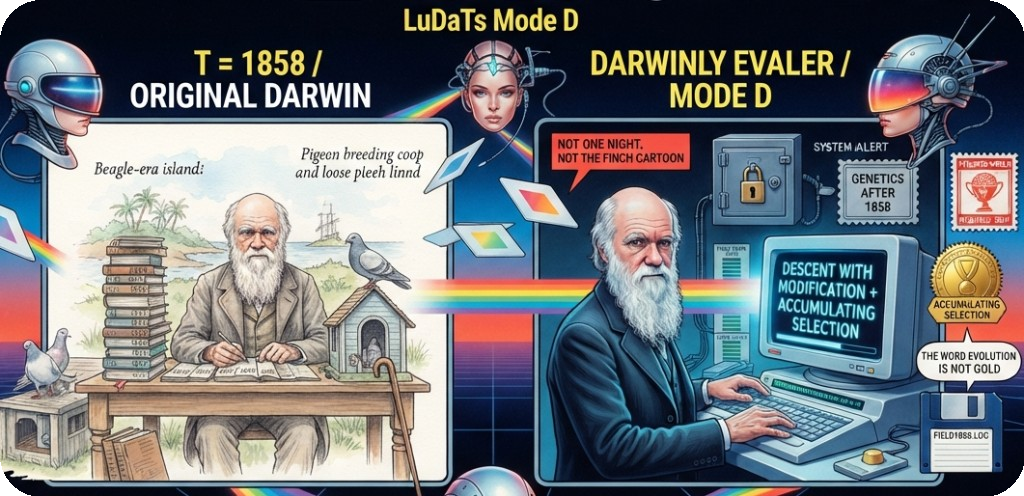
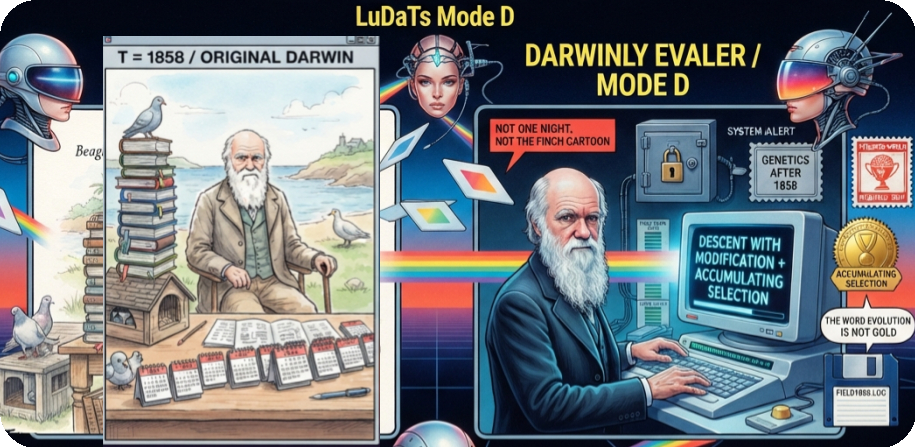
Replace the CurCuriely and Darwinly cards, and link Trajectly.
The two glossary cards use the new attached art with baked rounded corners. Prose mentions of Trajectly now open the glossary entry.

diff --git a/docs/glossary.html b/docs/glossary.html
@@ -116,7 +116,7 @@
 
 <h3><img src="../assets/glossary/score-constitution.png" alt="Score Constitution" height="17" width="176"></h3>
 
-<p>Evalathan is one evaluation harness. It is not a seventeenth Hydra score and not a ninth Dehydrus score. <a href="#hydra">Hydra</a> writes sixteen software cells, in this order: Devly, Archly, Codely, Refactorly, Mixly, Runly, Levi, Menschly, Tokely, Pressly, Triadly, Chorely, Trajectly, Warrantly, Domly, Stackly. <a href="#dehydrus">Dehydrus</a> writes eight <a href="#ludats">LuDaTs</a> (Limited-universe Data Test sets) cells under <a href="#pretruws">PRETRUWs</a>, in this order: <a href="#copernly">Copernly</a>, <a href="#keplerly">Keplerly</a>, <a href="#galileoly">Galileoly</a>, <a href="#darwinly">Darwinly</a>, <a href="#mendly">Mendly</a>, <a href="#einsteinly">Einsteinly</a>, <a href="#curcuriely">CurCuriely</a>, <a href="#newtonly">Newtonly</a>. The two rooms stay apart. A blank is not a fail and not a zero. Evalathan does not fold the twenty-four cells into one number, and it does not award a state-of-the-art stamp. The Hydra PRD (Product Requirements Document) line and the Dehydrus <a href="#habtwin">HabTwin</a> filename line are utilities, not extra evalers.</p>
+<p>Evalathan is one evaluation harness. It is not a seventeenth Hydra score and not a ninth Dehydrus score. <a href="#hydra">Hydra</a> writes sixteen software cells, in this order: Devly, Archly, Codely, Refactorly, Mixly, Runly, Levi, Menschly, Tokely, Pressly, Triadly, Chorely, <a href="#trajectly">Trajectly</a>, Warrantly, Domly, Stackly. <a href="#dehydrus">Dehydrus</a> writes eight <a href="#ludats">LuDaTs</a> (Limited-universe Data Test sets) cells under <a href="#pretruws">PRETRUWs</a>, in this order: <a href="#copernly">Copernly</a>, <a href="#keplerly">Keplerly</a>, <a href="#galileoly">Galileoly</a>, <a href="#darwinly">Darwinly</a>, <a href="#mendly">Mendly</a>, <a href="#einsteinly">Einsteinly</a>, <a href="#curcuriely">CurCuriely</a>, <a href="#newtonly">Newtonly</a>. The two rooms stay apart. A blank is not a fail and not a zero. Evalathan does not fold the twenty-four cells into one number, and it does not award a state-of-the-art stamp. The Hydra PRD (Product Requirements Document) line and the Dehydrus <a href="#habtwin">HabTwin</a> filename line are utilities, not extra evalers.</p>
 <p align="center"><img src="../assets/evalathan-logo.png" alt="Evalathan" width="325" height="325"></p>
 <p align="center"><i>One harness. Two conductors. It does not add a score.</i></p>
 <h3><img src="../assets/glossary/simplespeak.png" alt="Simplespeak" height="21" width="113"></h3>
@@ -787,7 +787,7 @@
 <p>This evaler is based on Marie Skłodowska-Curie and Pierre Curie, the pair who discovered that some matter gives off rays that belong to the atom, and who isolated two new elements from pitchblende. The double Cur in the name is because both of them had to be in the room. CurCuriely (code LuDaTs-CC) is a Dehydrus world under <a href="#ludats">LuDaTs</a> (Limited-universe Data Test sets). It runs <a href="#ludats-mode-pair">Mode Pair</a>. It is not a Hydra cell. v0.3 does not award Gold (the structural prize that wins this world, not a sports rank) from a filename. The cell stays deferred until a sealed 1897 pair-world file is in the tree. A blank is not a fail and not a zero.</p>
 <h3><img src="../assets/glossary/simplespeak.png" alt="Simplespeak" height="21" width="113"></h3>
 <p>This evaler is based on Marie Curie and Pierre Curie, who together, after long shared labor, showed that the rays were a property of the atom and pulled two new elements out of pitchblende. The exam uses <a href="#ludats-mode-pair">Mode Pair</a>: two biography clocks, and two agents - an LLM (Large Language Model) and its own co-LLM partner - who must work the same locked 1897 lab and may challenge each other's notes. One agent reciting the later textbook title is not Gold (the structural prize that wins this world, not a sports rank). Gold is joint. A solo run stays deferred. Pierre's 1906 death and Marie's 1911 solo Nobel are after this room.</p>
-<p align="center"><a class="ludats-card" href="../assets/glossary/cards/curcuriely-card.png"><img src="../assets/glossary/cards/curcuriely-card.png" alt="CurCuriely is the pair room. Two clocks, two agents, joint Gold." width="703" height="527"></a></p>
+<p align="center"><a class="ludats-card" href="../assets/glossary/cards/curcuriely-card.png"><img src="../assets/glossary/cards/curcuriely-card.png" alt="CurCuriely is the pair room. Two clocks, two agents, joint Gold." width="703" height="675"></a></p>
 <h3><img src="../assets/glossary/techspeak.png" alt="Techspeak" height="21" width="95"></h3>
 <p>Dehydrus calls CurCuriely and locks <a href="#ludats-mode-pair">Mode Pair</a>. World clock T is 1897, before the 1898 isolation notes. Biography clocks A1 and A2 are Marie and Pierre at that year, in the same shed, with Becquerel's 1896 uranium rays already on the table. Two agents are required. They may divide the work, and they may adversarially peer-review each other. A solo run stays deferred; that wait is part of the method, not a fail. If the folder does not claim a discovery or physical-world exam, the cell stays deferred. If it does, v0.3 looks for a sealed LuDaTs-CC world file and names it when present. v0.3 does not run the simulator, and it does not award Gold (the structural prize that wins this world, not a sports rank) from a filename.</p>
 <p>When the simulator does run, both agents get the 1897 corpus only. The next step is to isolate two new-element property cards from pitchblende and to state that the rays belong to the atom, not to a chemical compound. One agent cannot take Gold alone. The 1903 Nobel write-up, the 1911 chemistry prize, and later nuclear models are leakage. The string "radioactivity" without the atomic-property claim is not Gold. Card: <a href="https://github.com/pedramgoshATgmail/EVALATHAN/blob/main/exams/ludats/ludats-cc-curie.yaml" target="_blank" rel="noopener noreferrer">exams/ludats/ludats-cc-curie.yaml</a>.</p>
@@ -799,7 +799,7 @@
 <p>This evaler is based on Darwin, the naturalist who discovered that living forms change through descent with modification. Darwinly (LuDaTs-D) is a required Dehydrus world. It runs <a href="#ludats-mode-d">Mode D</a>. It is not a Hydra cell. v0.3 does not award Gold (the structural prize that wins this world, not a sports rank) from a filename. The cell stays deferred until a sealed 1858 field world is in the tree. A blank is not a fail and not a zero.</p>
 <h3><img src="../assets/glossary/simplespeak.png" alt="Simplespeak" height="21" width="113"></h3>
 <p>This evaler is based on Darwin, the naturalist who discovered that living forms change through descent with modification and a selection that can accumulate. The exam uses <a href="#ludats-mode-d">Mode D</a>: years of walking, breeding, and notes, not one night and not the finch cartoon. The book <a href="https://en.wikipedia.org/wiki/On_the_Origin_of_Species"><i>On the Origin of Species</i></a> is 1859, so the freeze is 1858. Descent with a selection that can accumulate is Gold (the structural prize that wins this world, not a sports rank). Saying the later word "evolution" is not Gold. Genetics after 1858 is locked out of the room.</p>
-<p align="center"><a class="ludats-card" href="../assets/glossary/cards/darwinly-card.png"><img src="../assets/glossary/cards/darwinly-card.png" alt="Darwinly accumulates years of field notes. Descent with modification, not the finch cartoon." width="703" height="341"></a></p>
+<p align="center"><a class="ludats-card" href="../assets/glossary/cards/darwinly-card.png"><img src="../assets/glossary/cards/darwinly-card.png" alt="Darwinly accumulates years of field notes. Descent with modification, not the finch cartoon." width="703" height="343"></a></p>
 <h3><img src="../assets/glossary/techspeak.png" alt="Techspeak" height="21" width="95"></h3>
 <p>Dehydrus calls Darwinly and locks <a href="#ludats-mode-d">Mode D</a>. World clock T is 1858, before <a href="https://en.wikipedia.org/wiki/On_the_Origin_of_Species"><i>On the Origin of Species</i></a> (1859). Biography clock A is what Darwin could have reached at that year: field notes, breeding, correspondence, not later genetics. If the folder does not claim a discovery or physical-world exam, the cell stays deferred. If it does, v0.3 looks for a sealed LuDaTs-D world file and names it when present. v0.3 does not run the simulator, and it does not award Gold (the structural prize that wins this world, not a sports rank) from a filename.</p>
 <p>When the simulator does run, the agent must accumulate a long field record and then state descent with modification plus a selection mechanism that can accumulate. The finch cartoon as an 1835 eureka is leakage. Genetics after 1858 is leakage. The string "evolution" is not Gold. Card: <a href="https://github.com/pedramgoshATgmail/EVALATHAN/blob/main/exams/ludats/ludats-d-darwin.yaml" target="_blank" rel="noopener noreferrer">exams/ludats/ludats-d-darwin.yaml</a>.</p>
@@ -917,7 +917,7 @@
 <p><a id="agentic-exams-that-are-not-on-the-vector-yet" name="agentic-exams-that-are-not-on-the-vector-yet"></a></p>
 <h2><img src="../assets/glossary/agentic-exams-that-are-not-on-the-vector-yet.png" alt="Agentic exams that are not on the vector yet" height="26" width="488"></h2>
 
-<p>These are public exams for coding agents and for chat models. They matter in this period. Evalathan does not run them in the laptop scan, and it does not paste their leaderboards. That is a scope fact, not a dismissal. Trajectly is the station that will count one of them on the day a saved trace from that exam is in the folder you scan. A percent copied from a website is still not a grade.</p>
+<p>These are public exams for coding agents and for chat models. They matter in this period. Evalathan does not run them in the laptop scan, and it does not paste their leaderboards. That is a scope fact, not a dismissal. <a href="#trajectly">Trajectly</a> is the station that will count one of them on the day a saved trace from that exam is in the folder you scan. A percent copied from a website is still not a grade.</p>
 <p>The same shelf holds retrieval catalogs. A catalog is a list of public scores. It is not an exam, and it is not on the vector. It also holds <a href="#prdbench">PRDBench</a>, which grades an agent that builds from a <a href="#prd">PRD</a>. <a href="#ludats">LuDaTs</a> is not on this shelf. It sits under <a href="#pretruws">PRETRUWs</a> and <a href="#dehydrus">Dehydrus</a>.</p>
 <p><img src="../assets/term-rule.png" alt="" width="100%" height="18"></p>
 
@@ -932,7 +932,7 @@
 <p>SWE-bench (Software Engineering Benchmark) is a set of real GitHub issues a coding agent is asked to patch. The full public set is large and is graded in containers. That does not fit a laptop scan of an ordinary folder. Evalathan can say the name. It does not pretend it sat the exam.</p>
 <h3><img src="../assets/glossary/techspeak.png" alt="Techspeak" height="21" width="95"></h3>
 
-<p>The project site is <a href="https://www.swebench.com/">swebench.com</a>. A short public account is on <a href="https://en.wikipedia.org/wiki/SWE-bench">Wikipedia</a>. Trajectly would count a local file whose name contains <code>trace</code>, <code>trajectory</code>, or <code>passk</code>. It will not count a screenshot.</p>
+<p>The project site is <a href="https://www.swebench.com/">swebench.com</a>. A short public account is on <a href="https://en.wikipedia.org/wiki/SWE-bench">Wikipedia</a>. <a href="#trajectly">Trajectly</a> would count a local file whose name contains <code>trace</code>, <code>trajectory</code>, or <code>passk</code>. It will not count a screenshot.</p>
 <p><img src="../assets/term-rule.png" alt="" width="100%" height="18"></p>
 
 <p><a id="swe-bench-pro" name="swe-bench-pro"></a></p>
@@ -946,7 +946,7 @@
 <p>SWE-bench Pro is a harder, later set from the same family, with a public slice and private slices. It is the right ambition for a hosted exam on a machine that can run it. It is too much work for the current laptop scan, and a copied percent would not make Evalathan more true.</p>
 <h3><img src="../assets/glossary/techspeak.png" alt="Techspeak" height="21" width="95"></h3>
 
-<p>The paper is <a href="https://arxiv.org/abs/2509.16941">arXiv:2509.16941</a>. Inclusion later means a frozen task folder, the grader that ships with it, and a trace Trajectly can count. It does not mean embedding the live leaderboard.</p>
+<p>The paper is <a href="https://arxiv.org/abs/2509.16941">arXiv:2509.16941</a>. Inclusion later means a frozen task folder, the grader that ships with it, and a trace <a href="#trajectly">Trajectly</a> can count. It does not mean embedding the live leaderboard.</p>
 <p><img src="../assets/term-rule.png" alt="" width="100%" height="18"></p>
 
 <p><a id="deepswe" name="deepswe"></a></p>
@@ -982,7 +982,7 @@
 
 <h3><img src="../assets/glossary/score-constitution.png" alt="Score Constitution" height="17" width="176"></h3>
 
-<p><a href="#ludats">LuDaTs</a> (Limited-universe Data Test sets) is a subset of <a href="#pretruws">PRETRUWs</a>: the methodology family inside that framework, not a Trajectly exam and not a seventeenth Hydra evaler. Dehydrus conducts the eight <a href="#ludats">LuDaTs</a> evalers. A missing world is blank, not a fail and not a zero. A gold medal is the structural prize for that world, not a sports rank of the product.</p>
+<p><a href="#ludats">LuDaTs</a> (Limited-universe Data Test sets) is a subset of <a href="#pretruws">PRETRUWs</a>: the methodology family inside that framework, not a <a href="#trajectly">Trajectly</a> exam and not a seventeenth Hydra evaler. Dehydrus conducts the eight <a href="#ludats">LuDaTs</a> evalers. A missing world is blank, not a fail and not a zero. A gold medal is the structural prize for that world, not a sports rank of the product.</p>
 <h3><img src="../assets/glossary/simplespeak.png" alt="Simplespeak" height="21" width="113"></h3>
 
 <p><a href="#ludats">LuDaTs</a> locks the agent in a dated world: only the news, instruments, and papers that existed at that year, and only what that discoverer could have reached at that age. It then has to form the theory by acting in a simulator whose later facts are gone. Naming the later textbook title is not a gold medal. Galileo, Copernicus, and Kepler are three different tests, not one astronomy quiz. <a href="#curcuriely">CurCuriely</a> is the pair room: two scientists, two agents. Newton waits.</p>
@@ -997,7 +997,7 @@
 <p><a id="habtwin" name="habtwin"></a></p>
 <h2>HabTwin</h2>
 <h3><img src="../assets/glossary/score-constitution.png" alt="Score Constitution" height="17" width="176"></h3>
-<p><a href="#habtwin">HabTwin</a> is a later exam for a digital twin: a stand-in that is supposed to act like one real person or one real machine. It is not one of Hydra's sixteen software evalers, and it is not a Trajectly exam. In v0.3 Dehydrus only looks for a lab file. If none is there, it prints <code>No HabTwin lab trace</code>. It does not invent a score. A blank is not a fail and not a zero. Spec: <a href="https://github.com/pedramgoshATgmail/EVALATHAN/blob/main/docs/HabTwin.md" target="_blank" rel="noopener noreferrer">docs/HabTwin.md</a>.</p>
+<p><a href="#habtwin">HabTwin</a> is a later exam for a digital twin: a stand-in that is supposed to act like one real person or one real machine. It is not one of Hydra's sixteen software evalers, and it is not a <a href="#trajectly">Trajectly</a> exam. In v0.3 Dehydrus only looks for a lab file. If none is there, it prints <code>No HabTwin lab trace</code>. It does not invent a score. A blank is not a fail and not a zero. Spec: <a href="https://github.com/pedramgoshATgmail/EVALATHAN/blob/main/docs/HabTwin.md" target="_blank" rel="noopener noreferrer">docs/HabTwin.md</a>.</p>
 <h3><img src="../assets/glossary/simplespeak.png" alt="Simplespeak" height="21" width="113"></h3>
 <p>A digital twin is a stand-in. HabTwin asks whether that stand-in keeps predicting what the real person or the real machine would do, in a safe lab, more than once. One lucky guess is not enough.</p>
 <p><b>P</b> is the person or machine you claim to have copied. <b>Q</b> is someone else, used as a check, so the stand-in cannot just sound generic. The <b>crowd</b> is "people in general," not P. A real twin should fit P, and should not fit Q or the crowd as well as it fits P.</p>
@@ -1006,7 +1006,7 @@
 <h3><img src="../assets/glossary/techspeak.png" alt="Techspeak" height="21" width="95"></h3>
 <p>A digital twin is valid when it predicts the counterpart's measurable outputs under a stated use (<a href="#iso-23247">ISO 23247</a>, Digital twin framework for manufacturing; <a href="#vvuq">VVUQ</a>, Verification, Validation, and Uncertainty Quantification; NASEM, National Academies of Sciences, Engineering, and Medicine, digital-twin report). <a href="#habtwin">HabTwin</a> scores the habit signature, then checks that the twin fits <b>P</b> better than <b>Q</b> and better than the crowd. For a machine, it also scores the generator's policy and a next sample only inside a lab toy. Matching one synthetic secret exactly is a ceiling check. It is not the definition of twin.</p>
 <p>Five cells, when scoring ships in v0.4: <a href="#habtwin">HabTwin</a>-C (composition: the shape of the habit), <a href="#habtwin">HabTwin</a>-D (discrimination: P vs Q vs crowd), <a href="#habtwin">HabTwin</a>-S (system twin of a documented generator), <a href="#habtwin">HabTwin</a>-X (exact-match ceiling, never required Gold), <a href="#habtwin">HabTwin</a>-K (keystroke timing, deferred). Live login is forbidden. Medicine is being told to run VVUQ on human digital twins, not a password parlor trick (<a href="https://www.nature.com/articles/s41746-025-01447-y">npj Digital Medicine 2025</a>; <a href="https://www.iso.org/standard/94858.html">ISO/AWI 23247-8</a>).</p>
-<p>Do not target live people or production systems. Do not ship wordlists or cracking loops. Do not fail a person for using a password manager. Do not mash <a href="#habtwin">HabTwin</a>-C into keystrokes. Do not add <a href="#habtwin">HabTwin</a> to Hydra or Trajectly. Do not call exact match the definition of twin.</p>
+<p>Do not target live people or production systems. Do not ship wordlists or cracking loops. Do not fail a person for using a password manager. Do not mash <a href="#habtwin">HabTwin</a>-C into keystrokes. Do not add <a href="#habtwin">HabTwin</a> to Hydra or <a href="#trajectly">Trajectly</a>. Do not call exact match the definition of twin.</p>
 <p><img src="../assets/term-rule.png" alt="" width="100%" height="18"></p>
 
 <p><a id="iso-23247" name="iso-23247"></a></p>
@@ -1050,7 +1050,7 @@
 <p>Not on the vector. WildBench grades chat replies. It is not a trace of a coding agent unless you saved one.</p>
 <h3><img src="../assets/glossary/simplespeak.png" alt="Simplespeak" height="21" width="113"></h3>
 
-<p>WildBench is a public benchmark of hard chat tasks drawn from real use. It is worth knowing about. Evalathan does not host it and does not quote its board. It would show up under Trajectly only if you saved a run in the folder.</p>
+<p>WildBench is a public benchmark of hard chat tasks drawn from real use. It is worth knowing about. Evalathan does not host it and does not quote its board. It would show up under <a href="#trajectly">Trajectly</a> only if you saved a run in the folder.</p>
 <h3><img src="../assets/glossary/techspeak.png" alt="Techspeak" height="21" width="95"></h3>
 
 <p>The paper is <a href="https://arxiv.org/abs/2406.04770">arXiv:2406.04770</a>. No leaderboard percent from that paper is copied into a cell.</p>

diff --git a/GLOSSARY.md b/GLOSSARY.md
@@ -1,6 +1,6 @@
 <h1><img src="assets/glossary/title.png" alt="Evalathan glossary" height="33"></h1>
 
-<big><big><mark><a href="https://htmlpreview.github.io/?https://raw.githubusercontent.com/pedramgoshATgmail/EVALATHAN/main/docs/glossary.html?v=habtwinabove1">Search the glossary</a></mark></big></big>. That page is the glossary, with its lettering and images, and the search slot is on the same page. Type a letter and the matching entries appear. Choosing a word moves to that entry.
+<big><big><mark><a href="https://htmlpreview.github.io/?https://raw.githubusercontent.com/pedramgoshATgmail/EVALATHAN/main/docs/glossary.html?v=trajectlylink1">Search the glossary</a></mark></big></big>. That page is the glossary, with its lettering and images, and the search slot is on the same page. Type a letter and the matching entries appear. Choosing a word moves to that entry.
 
 [Evalathan](#evalathan) is one evaluation harness. [Hydra](#hydra) is the conductor for sixteen software evalers. [Dehydrus](#dehydrus) is the conductor for eight [LuDaTs](#ludats) evalers under [PRETRUWs](#pretruws). [LuDaTs](#ludats) is a subset of [PRETRUWs](#pretruws). Each entry below has the same three parts.
 
@@ -20,7 +20,7 @@ The life-cycle gate on each evaler (G0 through G12) is the station's place in th
 
 <h3><img src="assets/glossary/score-constitution.png" alt="Score Constitution" height="17"></h3>
 
-Evalathan is one evaluation harness. It is not a seventeenth Hydra score and not a ninth Dehydrus score. [Hydra](#hydra) writes sixteen software cells, in this order: Devly, Archly, Codely, Refactorly, Mixly, Runly, Levi, Menschly, Tokely, Pressly, Triadly, Chorely, Trajectly, Warrantly, Domly, Stackly. [Dehydrus](#dehydrus) writes eight [LuDaTs](#ludats) (Limited-universe Data Test sets) cells under [PRETRUWs](#pretruws), in this order: [Copernly](#copernly), [Keplerly](#keplerly), [Galileoly](#galileoly), [Darwinly](#darwinly), [Mendly](#mendly), [Einsteinly](#einsteinly), [CurCuriely](#curcuriely), [Newtonly](#newtonly). The two rooms stay apart. A blank is not a fail and not a zero. Evalathan does not fold the twenty-four cells into one number, and it does not award a state-of-the-art stamp. The Hydra PRD (Product Requirements Document) line and the Dehydrus [HabTwin](#habtwin) filename line are utilities, not extra evalers.
+Evalathan is one evaluation harness. It is not a seventeenth Hydra score and not a ninth Dehydrus score. [Hydra](#hydra) writes sixteen software cells, in this order: Devly, Archly, Codely, Refactorly, Mixly, Runly, Levi, Menschly, Tokely, Pressly, Triadly, Chorely, [Trajectly](#trajectly), Warrantly, Domly, Stackly. [Dehydrus](#dehydrus) writes eight [LuDaTs](#ludats) (Limited-universe Data Test sets) cells under [PRETRUWs](#pretruws), in this order: [Copernly](#copernly), [Keplerly](#keplerly), [Galileoly](#galileoly), [Darwinly](#darwinly), [Mendly](#mendly), [Einsteinly](#einsteinly), [CurCuriely](#curcuriely), [Newtonly](#newtonly). The two rooms stay apart. A blank is not a fail and not a zero. Evalathan does not fold the twenty-four cells into one number, and it does not award a state-of-the-art stamp. The Hydra PRD (Product Requirements Document) line and the Dehydrus [HabTwin](#habtwin) filename line are utilities, not extra evalers.
 
 <p align="center"><img src="assets/evalathan-logo.png" alt="Evalathan" width="325"></p>
 <p align="center"><i>One harness. Two conductors. It does not add a score.</i></p>
@@ -934,7 +934,7 @@ Dehydrus routes the eight. Hydra routes the sixteen. A router pattern is not a s
 <a id="agentic-exams-that-are-not-on-the-vector-yet" name="agentic-exams-that-are-not-on-the-vector-yet"></a>
 <h2><img src="assets/glossary/agentic-exams-that-are-not-on-the-vector-yet.png" alt="Agentic exams that are not on the vector yet" height="26"></h2>
 
-These are public exams for coding agents and for chat models. They matter in this period. Evalathan does not run them in the laptop scan, and it does not paste their leaderboards. That is a scope fact, not a dismissal. Trajectly is the station that will count one of them on the day a saved trace from that exam is in the folder you scan. A percent copied from a website is still not a grade.
+These are public exams for coding agents and for chat models. They matter in this period. Evalathan does not run them in the laptop scan, and it does not paste their leaderboards. That is a scope fact, not a dismissal. [Trajectly](#trajectly) is the station that will count one of them on the day a saved trace from that exam is in the folder you scan. A percent copied from a website is still not a grade.
 
 The same shelf holds retrieval catalogs. A catalog is a list of public scores. It is not an exam, and it is not on the vector. It also holds [PRDBench](#prdbench), which grades an agent that builds from a [PRD](#prd). [LuDaTs](#ludats) is not on this shelf. It sits under [PRETRUWs](#pretruws) and [Dehydrus](#dehydrus).
 
@@ -954,7 +954,7 @@ SWE-bench (Software Engineering Benchmark) is a set of real GitHub issues a codi
 
 <h3><img src="assets/glossary/techspeak.png" alt="Techspeak" height="21"></h3>
 
-The project site is [swebench.com](https://www.swebench.com/). A short public account is on [Wikipedia](https://en.wikipedia.org/wiki/SWE-bench). Trajectly would count a local file whose name contains `trace`, `trajectory`, or `passk`. It will not count a screenshot.
+The project site is [swebench.com](https://www.swebench.com/). A short public account is on [Wikipedia](https://en.wikipedia.org/wiki/SWE-bench). [Trajectly](#trajectly) would count a local file whose name contains `trace`, `trajectory`, or `passk`. It will not count a screenshot.
 
 
 <p><img src="assets/term-rule.png" alt="" width="100%" height="18"></p>
@@ -972,7 +972,7 @@ SWE-bench Pro is a harder, later set from the same family, with a public slice a
 
 <h3><img src="assets/glossary/techspeak.png" alt="Techspeak" height="21"></h3>
 
-The paper is [arXiv:2509.16941](https://arxiv.org/abs/2509.16941). Inclusion later means a frozen task folder, the grader that ships with it, and a trace Trajectly can count. It does not mean embedding the live leaderboard.
+The paper is [arXiv:2509.16941](https://arxiv.org/abs/2509.16941). Inclusion later means a frozen task folder, the grader that ships with it, and a trace [Trajectly](#trajectly) can count. It does not mean embedding the live leaderboard.
 
 
 <p><img src="assets/term-rule.png" alt="" width="100%" height="18"></p>
@@ -1018,7 +1018,7 @@ The paper is [arXiv:2510.24358](https://arxiv.org/abs/2510.24358), submitted 28 
 
 <h3><img src="assets/glossary/score-constitution.png" alt="Score Constitution" height="17"></h3>
 
-[LuDaTs](#ludats) (Limited-universe Data Test sets) is a subset of [PRETRUWs](#pretruws): the methodology family inside that framework, not a Trajectly exam and not a seventeenth Hydra evaler. Dehydrus conducts the eight [LuDaTs](#ludats) evalers. A missing world is blank, not a fail and not a zero. A gold medal is the structural prize for that world, not a sports rank of the product.
+[LuDaTs](#ludats) (Limited-universe Data Test sets) is a subset of [PRETRUWs](#pretruws): the methodology family inside that framework, not a [Trajectly](#trajectly) exam and not a seventeenth Hydra evaler. Dehydrus conducts the eight [LuDaTs](#ludats) evalers. A missing world is blank, not a fail and not a zero. A gold medal is the structural prize for that world, not a sports rank of the product.
 
 <h3><img src="assets/glossary/simplespeak.png" alt="Simplespeak" height="21"></h3>
 
@@ -1038,7 +1038,7 @@ Spec: [docs/LuDaTs.md](docs/LuDaTs.md). Machine cards: [exams/ludats/](exams/lud
 
 <h3><img src="assets/glossary/score-constitution.png" alt="Score Constitution" height="17"></h3>
 
-[HabTwin](#habtwin) is a later exam for a digital twin: a stand-in that is supposed to act like one real person or one real machine. It is not one of Hydra's sixteen software evalers, and it is not a Trajectly exam. In v0.3 Dehydrus only looks for a lab file. If none is there, it prints `No HabTwin lab trace`. It does not invent a score. A blank is not a fail and not a zero. Spec: [docs/HabTwin.md](docs/HabTwin.md).
+[HabTwin](#habtwin) is a later exam for a digital twin: a stand-in that is supposed to act like one real person or one real machine. It is not one of Hydra's sixteen software evalers, and it is not a [Trajectly](#trajectly) exam. In v0.3 Dehydrus only looks for a lab file. If none is there, it prints `No HabTwin lab trace`. It does not invent a score. A blank is not a fail and not a zero. Spec: [docs/HabTwin.md](docs/HabTwin.md).
 
 <h3><img src="assets/glossary/simplespeak.png" alt="Simplespeak" height="21"></h3>
 
@@ -1056,7 +1056,7 @@ A digital twin is valid when it predicts the counterpart's measurable outputs un
 
 Five cells, when scoring ships in v0.4: [HabTwin](#habtwin)-C (composition: the shape of the habit), [HabTwin](#habtwin)-D (discrimination: P vs Q vs crowd), [HabTwin](#habtwin)-S (system twin of a documented generator), [HabTwin](#habtwin)-X (exact-match ceiling, never required Gold), [HabTwin](#habtwin)-K (keystroke timing, deferred). Live login is forbidden. Medicine is being told to run VVUQ on human digital twins, not a password parlor trick ([npj Digital Medicine 2025](https://www.nature.com/articles/s41746-025-01447-y); [ISO/AWI 23247-8](https://www.iso.org/standard/94858.html)).
 
-Do not target live people or production systems. Do not ship wordlists or cracking loops. Do not fail a person for using a password manager. Do not mash [HabTwin](#habtwin)-C into keystrokes. Do not add [HabTwin](#habtwin) to Hydra or Trajectly. Do not call exact match the definition of twin.
+Do not target live people or production systems. Do not ship wordlists or cracking loops. Do not fail a person for using a password manager. Do not mash [HabTwin](#habtwin)-C into keystrokes. Do not add [HabTwin](#habtwin) to Hydra or [Trajectly](#trajectly). Do not call exact match the definition of twin.
 
 
 <p><img src="assets/term-rule.png" alt="" width="100%" height="18"></p>
@@ -1124,7 +1124,7 @@ Not on the vector. WildBench grades chat replies. It is not a trace of a coding 
 
 <h3><img src="assets/glossary/simplespeak.png" alt="Simplespeak" height="21"></h3>
 
-WildBench is a public benchmark of hard chat tasks drawn from real use. It is worth knowing about. Evalathan does not host it and does not quote its board. It would show up under Trajectly only if you saved a run in the folder.
+WildBench is a public benchmark of hard chat tasks drawn from real use. It is worth knowing about. Evalathan does not host it and does not quote its board. It would show up under [Trajectly](#trajectly) only if you saved a run in the folder.
 
 <h3><img src="assets/glossary/techspeak.png" alt="Techspeak" height="21"></h3>
 

diff --git a/README.md b/README.md
@@ -75,7 +75,7 @@ EVALATHAN evaluates a project by passing a local directory path (`evalathan scan
 | :--- | :--- | :--- |
 | Code Health & Repository Metrics | Devly, Archly, Codely, Refactorly, Mixly | Inspects Git history (commits), presence of architectural documentation, cyclomatic/branching complexity, dead code, code churn/duplication, and language breakdown. |
 | Performance & Trade-offs | Runly, Pressly, Triadly | Times micro-benchmarks, reads compression and asset quality logs (image/video/file sizes), and documents the project's prioritization order across cost, latency, and impact. |
-| AI Agents & LLM Observability | Tokely, Chorely, Trajectly, Domly, Warrantly | Tracks token delta/reduction metrics, maps multi-agent rosters and responsibilities, counts agent trace steps, tests domain-specific Q&A pairs, and audits whether factual claims link to verifiable evidence. |
+| AI Agents & LLM Observability | Tokely, Chorely, [Trajectly](GLOSSARY.md#user-content-trajectly), Domly, Warrantly | Tracks token delta/reduction metrics, maps multi-agent rosters and responsibilities, counts agent trace steps, tests domain-specific Q&A pairs, and audits whether factual claims link to verifiable evidence. |
 | Human Ergonomics & Reporting | Levi, Menschly, Stackly | Evaluates user-centric scorecards, checks for built-in user break timers, and produces an itemized report of completed vs. deferred checks. |
 
 Dehydrus's eight LuDaTs evalers sit in their own room. They are listed under [What v0.3 runs](#what-v03-runs). They are not a seventeenth Hydra score.
@@ -90,7 +90,7 @@ A standout aspect of the project is its integration of developer and user wellne
 
 [Menschly](GLOSSARY.md#user-content-menschly): The evaluator specifically tasked with verifying whether a codebase incorporates real session limiters/timers rather than just vague README promises.
 
-[PRETRUWs](GLOSSARY.md#user-content-pretruws) / [LuDaTs](GLOSSARY.md#user-content-ludats) / [Dehydrus](GLOSSARY.md#user-content-dehydrus): The v0.3 physical-world room. PRETRUWs is the 4IR (Fourth Industrial Revolution) framework. LuDaTs (Limited-universe Data Test sets) is a subset of PRETRUWs: the methodology family inside that framework, not a Trajectly exam. Dehydrus conducts eight LuDaTs evalers. A prompt cutoff is not a world. A blank is not a fail and not a zero.
+[PRETRUWs](GLOSSARY.md#user-content-pretruws) / [LuDaTs](GLOSSARY.md#user-content-ludats) / [Dehydrus](GLOSSARY.md#user-content-dehydrus): The v0.3 physical-world room. PRETRUWs is the 4IR (Fourth Industrial Revolution) framework. LuDaTs (Limited-universe Data Test sets) is a subset of PRETRUWs: the methodology family inside that framework, not a [Trajectly](GLOSSARY.md#user-content-trajectly) exam. Dehydrus conducts eight LuDaTs evalers. A prompt cutoff is not a world. A blank is not a fail and not a zero.
 
 [HabTwin](GLOSSARY.md#user-content-habtwin): A digital twin is a stand-in. HabTwin asks whether that stand-in keeps predicting what the real person or the real machine would do, in a safe lab, more than once. One lucky guess is not enough. Guessing a live password is not the prize. v0.3 does not run this exam yet. Dehydrus only looks for a lab file. If none is there, it prints `No HabTwin lab trace`. It does not invent a score.
 
@@ -160,7 +160,7 @@ Early Stage (v0.3): The repository now has more than 150 commits and still has n
 
 Dehydrus Not Fully Wired: The eight LuDaTs evalers ship as desk cells and exam cards. v0.3 names a sealed world file when one is in the tree. It does not yet run the locked-year simulator inside a default local install, and it does not award Gold from a filename. Missing worlds stay deferred. That wait is part of the method, not a fail.
 
-Passive Log Parsing vs. Active Execution: Several Hydra AI and performance evaluators (e.g., Tokely, Trajectly, Pressly) rely on reading pre-existing log files and saved run artifacts rather than executing live tracing or active benchmarking. If a project lacks standardized log outputs, those cells will simply remain blank/deferred.
+Passive Log Parsing vs. Active Execution: Several Hydra AI and performance evaluators (e.g., Tokely, [Trajectly](GLOSSARY.md#user-content-trajectly), Pressly) rely on reading pre-existing log files and saved run artifacts rather than executing live tracing or active benchmarking. If a project lacks standardized log outputs, those cells will simply remain blank/deferred.
 
 AST and Language Parsing Depth: Running branching/decision checks (Codely) across arbitrary compilers and languages is non-trivial; depending on the parsers implemented in src/evalathan/, support for languages outside Python may be basic.
 

diff --git a/docs/LuDaTs.md b/docs/LuDaTs.md
@@ -1,7 +1,7 @@
 # LuDaTs v1 - Limited-universe Data Test sets
 
 **Date:** 31 Oct 2026
-**Status:** Subset of PRETRUWs. Methodology family. Not a Hydra evaler. Not a Trajectly exam.
+**Status:** Subset of PRETRUWs. Methodology family. Not a Hydra evaler. Not a [Trajectly](../GLOSSARY.md#user-content-trajectly) exam.
 **Framework:** [PRETRUWs](PRETRUWs.md) (PREdiscovery TRuncated-Universes and Worlds)
 **Conductor:** Dehydrus
 **Product:** Evalathan, [github.com/pedramgoshATgmail/EVALATHAN](https://github.com/pedramgoshATgmail/EVALATHAN)
@@ -77,7 +77,7 @@ Machine cards: [`exams/ludats/`](../exams/ludats/).
 | Place | Decision |
 |-------|----------|
 | Hydra sixteen | No. Do not add a LuDaTs evaler to Hydra. |
-| Trajectly exam shelf | No. Trajectly is software / agentic traces. |
+| [Trajectly](../GLOSSARY.md#user-content-trajectly) exam shelf | No. [Trajectly](../GLOSSARY.md#user-content-trajectly) is software / agentic traces. |
 | Dehydrus eight | Yes. Full desk. Command `evalathan dehydrus`. |
 | Domly | No. Domly matches question ids. LuDaTs grades hypothesis formation. |
 | v0.3 laptop scan | Name the sealed file if present. Do not execute the world. Blank is not a zero. |
@@ -95,7 +95,7 @@ Machine cards: [`exams/ludats/`](../exams/ludats/).
 
 ## 6. Not to do
 
-- Do not put LuDaTs under Trajectly.
+- Do not put LuDaTs under [Trajectly](../GLOSSARY.md#user-content-trajectly).
 - Do not add the eight to Hydra's sixteen.
 - Do not collapse Copernicus, Kepler, and Galileo into one heliocentrism quiz.
 - Do not ship only three worlds.

diff --git a/docs/HabTwin.md b/docs/HabTwin.md
@@ -4,7 +4,7 @@
 **Status:** Named in v0.3. Scoring engine planned for v0.4.
 **Tagline:** HabTwin is an innovative twin-fidelity exam: person-specific, distributional, leak-gated, lab-only.
 **Framework (v0.4):** HabTwin
-**Router:** Dehydrus (not Trajectly, not Hydra)
+**Router:** Dehydrus (not [Trajectly](../GLOSSARY.md#user-content-trajectly), not Hydra)
 **Product:** Evalathan, [github.com/pedramgoshATgmail/EVALATHAN](https://github.com/pedramgoshATgmail/EVALATHAN)
 
 A digital twin is validated when it predicts the counterpart's measurable outputs under a stated use ([ISO 23247](https://www.iso.org/standard/75066.html) VVUQ - Verification, Validation, and Uncertainty Quantification; NASEM digital-twin report).
@@ -92,7 +92,7 @@ Human digital twins in medicine are being told to run VVUQ, not a password parlo
 - Do not treat a password-manager user as a failure because the twin cannot emit a random 20-character secret.
 - Do not collapse HabTwin-C into keystroke dynamics.
 - Do not add HabTwin to Hydra's sixteen.
-- Do not sit HabTwin on Trajectly's exam shelf.
+- Do not sit HabTwin on [Trajectly](../GLOSSARY.md#user-content-trajectly)'s exam shelf.
 - Do not call exact match the ultimate 4IR science test.
 - Do not publish this pack as how to guess passwords from a biography.
 

diff --git a/docs/PRETRUWs.md b/docs/PRETRUWs.md
@@ -43,7 +43,7 @@ This is doctrine, not a score. It does not replace Highsmith. It does not award 
 
 ## 3. Why LuDaTs is not Trajectly
 
-Trajectly reads software / agentic traces (intangibles). LuDaTs locks a physical or part-tangible world (an optic, a field year, a lab table). Putting LuDaTs on Trajectly's exam shelf mixed those rooms. v0.3 moves LuDaTs under PRETRUWs and Dehydrus.
+[Trajectly](../GLOSSARY.md#user-content-trajectly) reads software / agentic traces (intangibles). LuDaTs locks a physical or part-tangible world (an optic, a field year, a lab table). Putting LuDaTs on [Trajectly](../GLOSSARY.md#user-content-trajectly)'s exam shelf mixed those rooms. v0.3 moves LuDaTs under PRETRUWs and Dehydrus.
 
 ## 4. What each kind of thing is
 

diff --git a/docs/BUILDLOG.md b/docs/BUILDLOG.md
@@ -4,7 +4,7 @@ Past, current, and next. This is the product roadmap, not a diary.
 
 ## Past - v0.2
 
-Hydra conducts sixteen software and agentic evalers on a local folder. The laptop scan grades only what is on disk. A blank is not a fail and not a zero. The sixteen stay sixteen. Public coding exams (SWE-bench, PRDBench, Ragas catalogs) sit on Trajectly's exam shelf and are not run.
+Hydra conducts sixteen software and agentic evalers on a local folder. The laptop scan grades only what is on disk. A blank is not a fail and not a zero. The sixteen stay sixteen. Public coding exams (SWE-bench, PRDBench, Ragas catalogs) sit on [Trajectly](../GLOSSARY.md#user-content-trajectly)'s exam shelf and are not run.
 
 ## Current - v0.3
 
